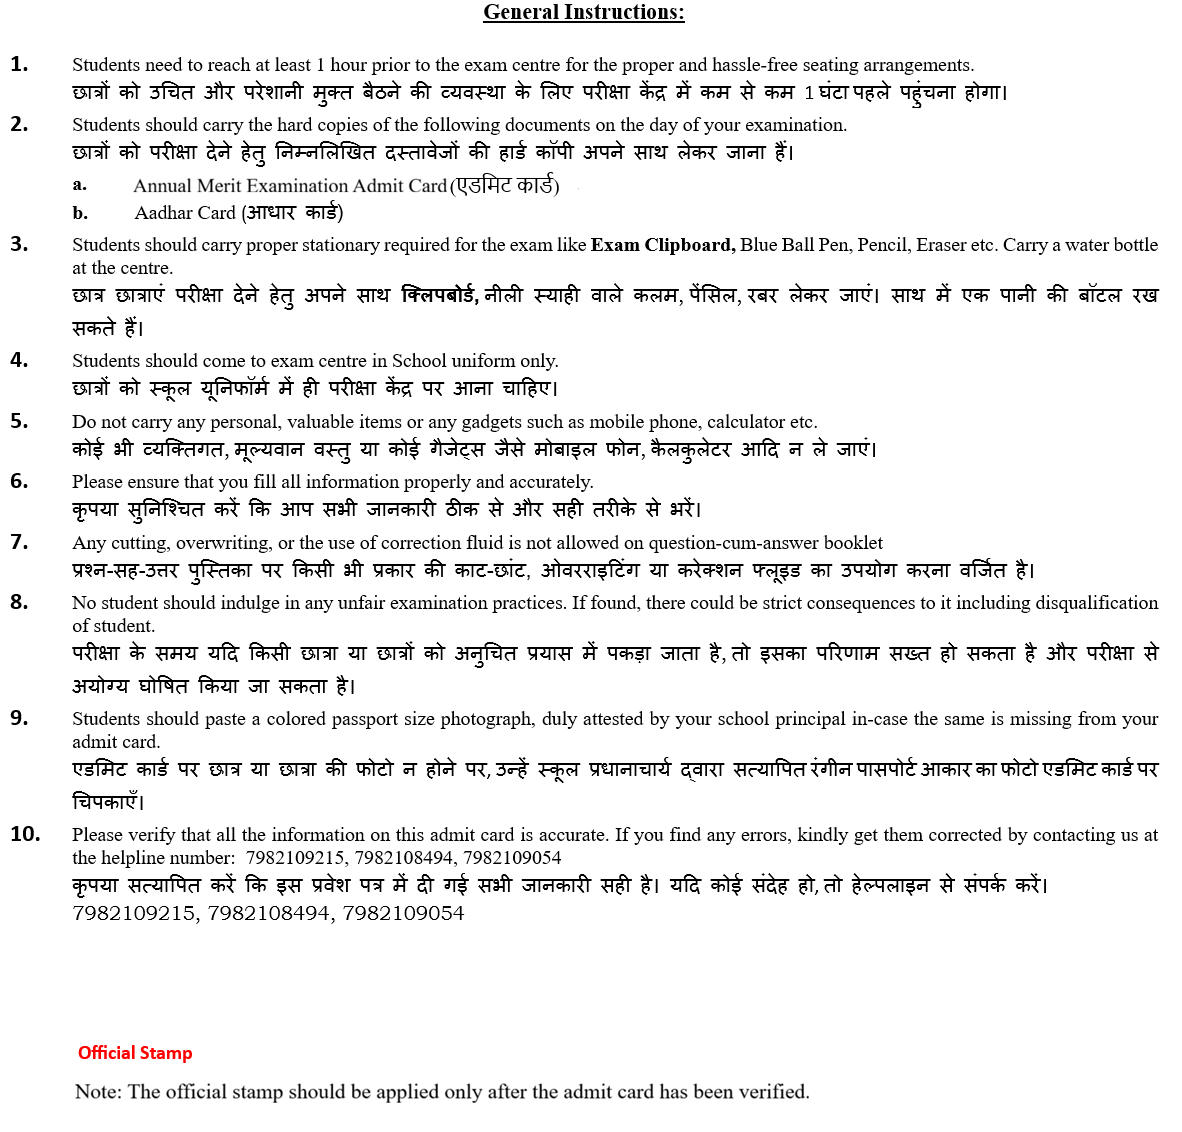
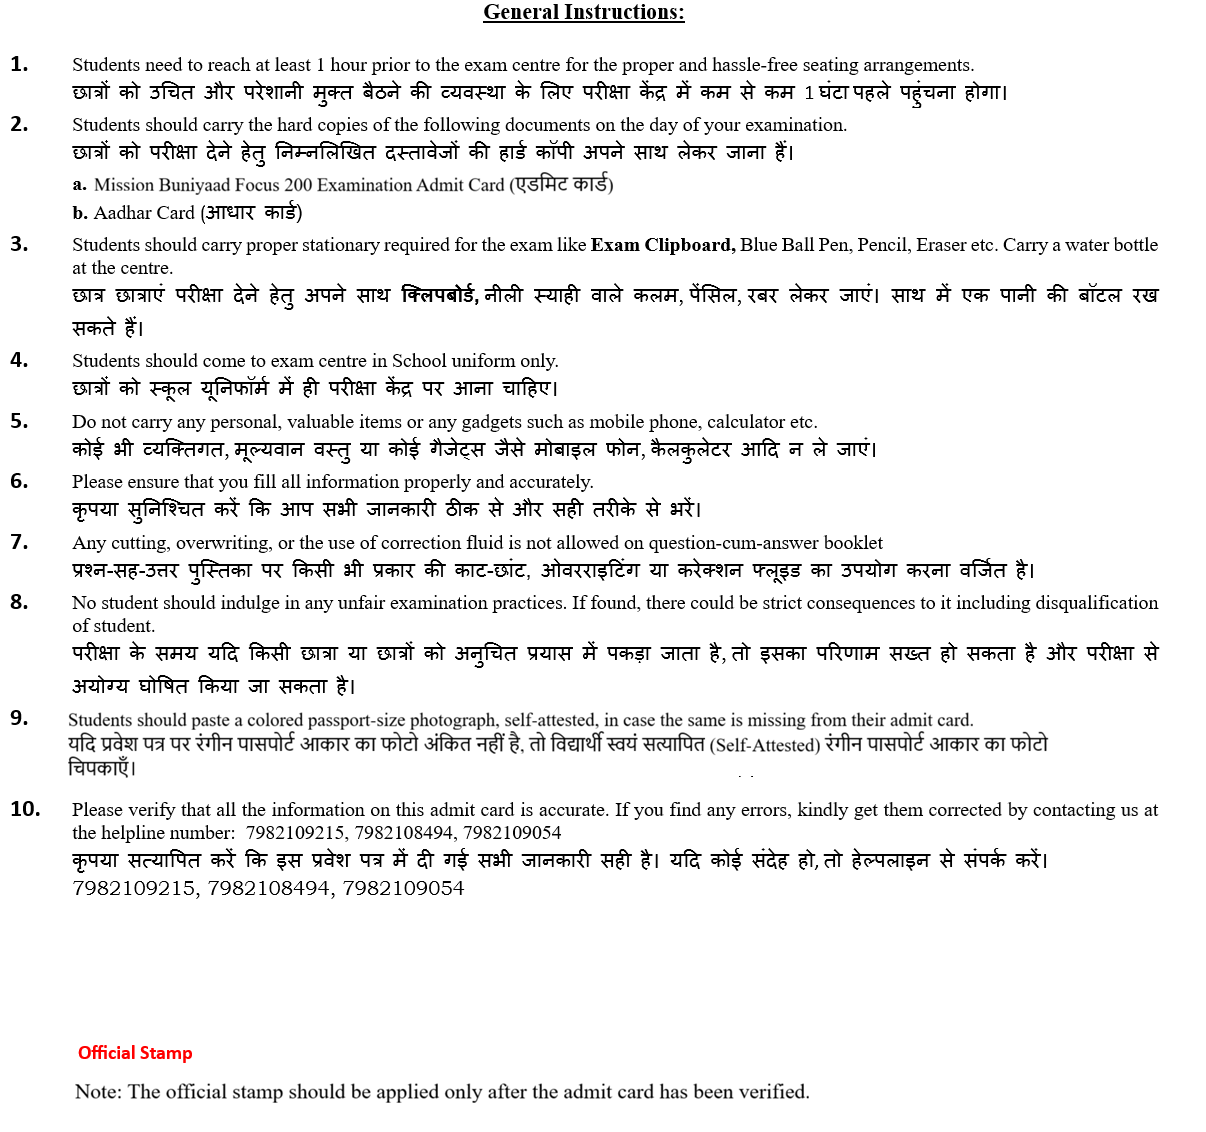
updates

Changed region(s): [[0.0609, 0.0, 0.9746, 0.8348], [0.0609, 0.9276, 0.6701, 0.9894], [0.0, 0.7111, 0.0305, 0.742]]

diff --git a/src/components/AcademicsComponents/AMEAdmitCard.jsx b/src/components/AcademicsComponents/AMEAdmitCard.jsx
@@ -981,19 +981,23 @@ export const AMEAdmitCard = () => {
 
     // Header
     doc.setFontSize(12);
-    doc.text("Directorate of School Education (DSE) Shiksha Sadan, Haryana", pageWidth / 2, 10, { align: "center" });
+    // doc.text("Directorate of School Education (DSE) Shiksha Sadan, Haryana", pageWidth / 2, 10, { align: "center" });
     doc.setFontSize(13);
-    doc.text("ANNUAL MERIT EXAMINATION, (2026-28)", pageWidth / 2, 15, { align: "center" });
+    // doc.text("ANNUAL MERIT EXAMINATION, (2026-28)", pageWidth / 2, 15, { align: "center" });
+    doc.text("MISSION BUNIYAAD FOCUS 200, (2026-28)", pageWidth / 2, 15, { align: "center" });
+   
     doc.setFontSize(12);
     doc.text("E – Admit Card", pageWidth / 2, 22, { align: "center" });
 
     // Exam details
     doc.setFont("helvetica", "bold");
     doc.setFontSize(10);
-    const examDate = student.ameExaminationDate || "To be announced";
+    const examDate = student.focus200ExamDate || "To be announced";
     doc.text(`Examination Date: ${examDate}`, pageWidth / 2, 27, { align: "center" });
     doc.setFontSize(10);
-    doc.text("Reporting Time: 08:00 AM, Exam Time: 09:15 AM to 10:30 AM", pageWidth / 2, 32, { align: "center" });
+    // doc.text("Reporting Time: 08:00 AM, Exam Time: 09:15 AM to 10:30 AM", pageWidth / 2, 32, { align: "center" });
+
+    doc.text("Reporting Time: 09:30 AM, Exam Time: 10:00 AM to 11:30 AM", pageWidth / 2, 32, { align: "center" });
 
     // Student data for PDF (Date of Birth removed)
     const dataForPdf = [
@@ -1006,7 +1010,8 @@ export const AMEAdmitCard = () => {
       ["District", student.districtName ?? "-"],
       ["Block", student.blockName ?? "-"],
       ["School", student.schoolName ?? "-"],
-      ["Examination Venue", student.ameExaminationVenue ?? "-"],
+      // ["Examination Venue", student.ameExaminationVenue ?? "-"],
+        ["Examination Venue", student.focus200ExamVenue ?? "-"],
     ];
 
     doc.autoTable({
@@ -1058,7 +1063,9 @@ export const AMEAdmitCard = () => {
     try {
       const blob = await buildPdfBlob(foundStudent);
       const safeName = (foundStudent.studentSrn || foundStudent.firstName || "admit").toString().replace(/\s+/g, "_");
-      saveAs(blob, `${safeName}_AME_admit_card.pdf`);
+      // saveAs(blob, `${safeName}_AME_admit_card.pdf`);
+
+      saveAs(blob, `${safeName}_Focus_200_admit_card.pdf`);
     } catch (err) {
       console.error("PDF generation error:", err);
       setError("Error generating admit card. Please try again.");
@@ -1078,7 +1085,8 @@ export const AMEAdmitCard = () => {
     setFoundStudent(null);
     setSrnInput("");
     setError(null);
-    navigate("/ame-admit-card");
+    // navigate("/ame-admit-card");
+    navigate("/focus-200-admit-card");
   };
 
   const cardStyle = {
@@ -1092,7 +1100,8 @@ export const AMEAdmitCard = () => {
       <Card style={cardStyle}>
         <Card.Header className="bg-white text-center border-0 py-3">
           <div style={{ textAlign: "center" }}>
-            <h2 style={{ fontWeight: 700, color: "#2c3e50" }}>Annual Merit Examination (2026-28)</h2>
+            {/* <h2 style={{ fontWeight: 700, color: "#2c3e50" }}>Annual Merit Examination (2026-28)</h2> */}
+            <h2 style={{ fontWeight: 700, color: "#2c3e50" }}>Mission Buniyaad Focus 200 Examination (2026-28)</h2>
             <h3 className="text-muted">Admit Card</h3>
             <hr />
           </div>
@@ -1102,8 +1111,11 @@ export const AMEAdmitCard = () => {
           {!foundStudent ? (
             // Search Form
             <div>
-              <Alert variant="info" className="mb-4">
+              {/* <Alert variant="info" className="mb-4">
                 <strong>Instructions:</strong> Please enter your SRN (Student Registration Number) to download your AME Admit Card.
+              </Alert> */}
+              <Alert variant="info" className="mb-4">
+                <strong>Instructions:</strong> Please enter your SRN (Student Registration Number) to download your Focus 200 Admit Card.
               </Alert>
 
               <Form.Group className="mb-4">
@@ -1154,8 +1166,12 @@ export const AMEAdmitCard = () => {
           ) : (
             // Student Found - Show Details and Download Button
             <div>
-              <Alert variant="success" className="mb-4">
+              {/* <Alert variant="success" className="mb-4">
                 <strong>Admit Card Status:</strong> Please verify your details below and click download to get your AME Admit Card.
+              </Alert> */}
+
+              <Alert variant="success" className="mb-4">
+                <strong>Admit Card Status:</strong> Please verify your details below and click download to get your Focus 200 Admit Card.
               </Alert>
 
               <div className="student-details mb-4">
@@ -1179,8 +1195,8 @@ export const AMEAdmitCard = () => {
                 </div>
                 <div className="row mt-2">
                   <div className="col-12">
-                    <p><strong>Examination Venue:</strong> {foundStudent.ameExaminationVenue || "-"}</p>
-                    <p><strong>Examination Date:</strong> {foundStudent.ameExaminationDate || "To be announced"}</p>
+                    <p><strong>Examination Venue:</strong> {foundStudent.focus200ExamVenue || "-"}</p>
+                    <p><strong>Examination Date:</strong> {foundStudent.focus200ExamDate || "To be announced"}</p>
                   </div>
                 </div>
               </div>

diff --git a/src/components/AcademicsComponents/AMEAttendanceSheet.jsx b/src/components/AcademicsComponents/AMEAttendanceSheet.jsx
@@ -156,7 +156,7 @@ export const AMEAttendanceSheet = () => {
         gender: student.gender,
         centerName: student.centerName,
         district: student.districtName,
-        venue: student.examinationVenue,
+        venue: student.focus200ExamVenue,
       }));
       
       setAttendanceData(formattedData);
@@ -281,7 +281,9 @@ export const AMEAttendanceSheet = () => {
         // Add header text
         pdf.setFontSize(16);
         pdf.setFont("helvetica", "bold");
-        pdf.text("ANNUAL MERIT EXAMINATION (2026-28)", w / 2, 18, { align: "center" });
+        // pdf.text("ANNUAL MERIT EXAMINATION (2026-28)", w / 2, 18, { align: "center" });
+
+          pdf.text("MISSION BUNIYAAD FOCUS 200 EXAMINATION (2026-28)", w / 2, 18, { align: "center" });
         
         pdf.setFontSize(14);
         pdf.setFont("helvetica", "bold");
@@ -292,7 +294,7 @@ export const AMEAttendanceSheet = () => {
         pdf.text(`District: ${selectedDistrict?.label || "N/A"}`, w / 2, 34, { align: "center" });
         
         // Add venue name below district
-        const venueName = attendanceData[0]?.venue || "The Multipurpose Hall (MPH) at Chaudhary Devi Lal University (CDLU), Sirsa";
+        const venueName = attendanceData[0]?.venue || "_____________________________________";
         pdf.setFontSize(10);
         pdf.setFont("helvetica", "italic");
         pdf.text(`Venue: ${venueName}`, w / 2, 41, { align: "center" });
@@ -429,7 +431,8 @@ export const AMEAttendanceSheet = () => {
       <Card className="shadow">
         <Card.Header className="bg-primary text-white d-flex align-items-center">
           <FaFilter className="me-2" /> 
-          <h5 className="mb-0">AME L-3 ATTENDANCE SHEET GENERATOR</h5>
+          {/* <h5 className="mb-0">AME L-3 ATTENDANCE SHEET GENERATOR</h5> */}
+            <h5 className="mb-0">MISSION BUNIYAAD FOCUS 200 ATTENDANCE SHEET</h5>
         </Card.Header>
 
         <Card.Body>
@@ -626,7 +629,7 @@ export const AMEAttendanceSheet = () => {
         <Card.Footer className="text-muted small">
           <div className="d-flex justify-content-between">
             <span><FaBuilding className="me-1" /> Total Districts: {districts.length}</span>
-            <span>AME Attendance Sheet Generator v2.0</span>
+            {/* <span>AME Attendance Sheet Generator v2.0</span> */}
           </div>
         </Card.Footer>
       </Card>

diff --git a/src/App.js b/src/App.js
@@ -388,9 +388,11 @@ function App() {
 
                       <Route path="/ame-score-card-202527" element = {<AMEScoreCard202527/>}/>
 
-                      <Route path="/ame-attendance-sheet" element = {<AMEAttendanceSheet/>}/>
+                      {/* <Route path="/ame-attendance-sheet" element = {<AMEAttendanceSheet/>}/> */}
+                       <Route path="/focus-200-attendance-sheet" element = {<AMEAttendanceSheet/>}/>
 
-                      <Route path="/ame-admit-card" element = {<AMEAdmitCard/>}/>
+                      {/* <Route path="/ame-admit-card" element = {<AMEAdmitCard/>}/> */}
+                       <Route path="/focus-200-admit-card" element = {<AMEAdmitCard/>}/>
 
                        <Route path="/calling-dasbhaord-of-all-users"  element = {<CallingDashboardOfAllUsers/>}/>
 
